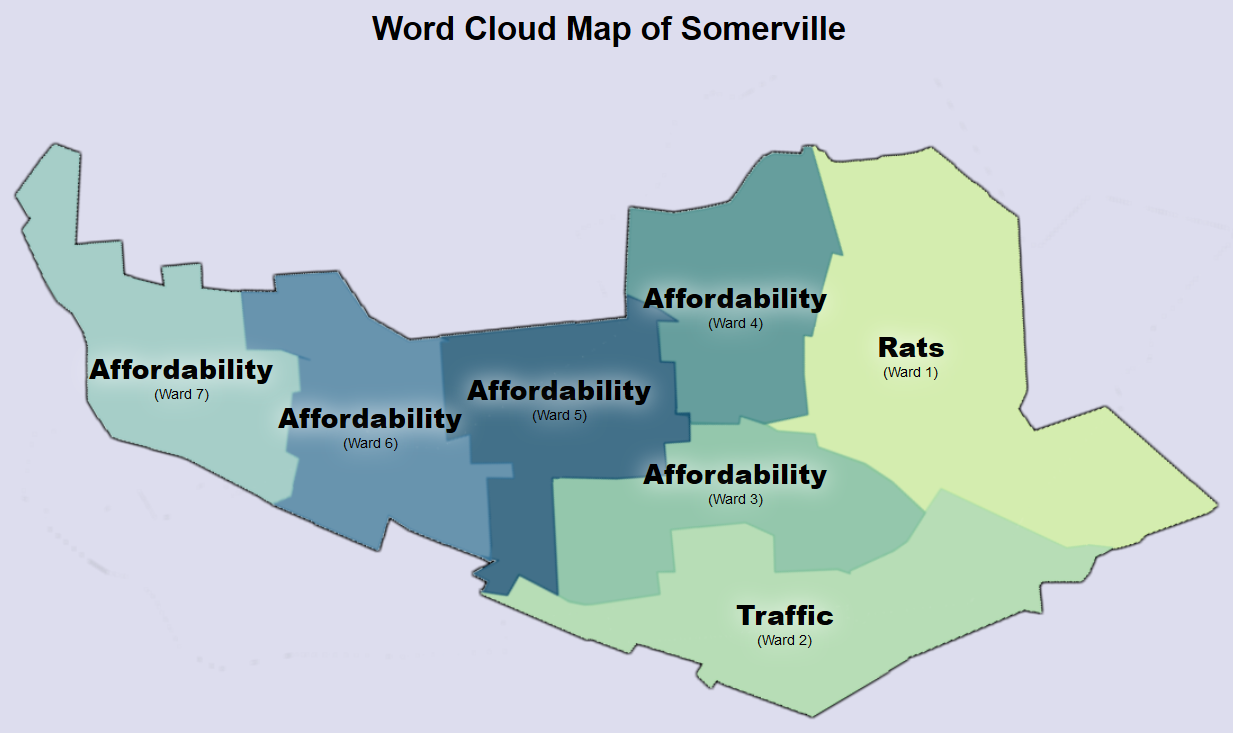
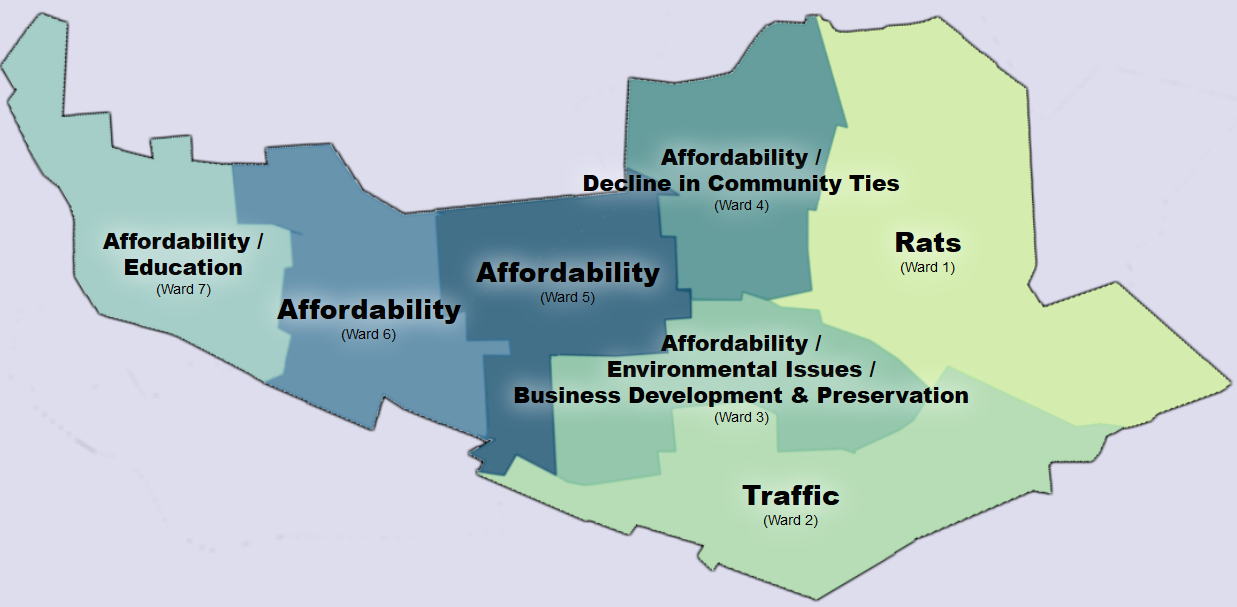
Add files via upload

diff --git a/index.html b/index.html
@@ -1,20 +1,25 @@
 <html>
 <head>
   <meta property="og:image" content="https://jcalz.github.io/somerville-word-clouds/preview.png">	
-  <meta property="og:title" content="Somerville Word Clouds">
-  <title>Somerville Word Clouds</title>
+  <meta property="og:title" content="A Snapshot of Somerville Conversations">
+  <title>A Snapshot of Somerville Conversations</title>
   <style>
       html {
-	    text-align: center;
 	    font-family: Helvetica Neue,Helvetica,Arial,sans-serif;
 		background-color: #ddddee;
 		width: 80%;
+	  }
+	  h2 {
+	  	    text-align: center;
 	  }
       .container {
 	    position: relative;
 		font-size: 1.7vw;
 		text-shadow: 0 0 0.8em white;
-		
+	  	    text-align: center;		
+	  }
+	  .long {
+	    font-size: 80%;
 	  }
 	  .container img {
 		width: 100%;
@@ -34,31 +39,31 @@
 	    font-weight: 900;
 	  }
       .ward1 {
-	    left: 74%;
-		top: 40%;
+	    left: 75%;
+		top: 41%;
 	  }
       .ward2 {
 	    left: 64%;
-		top: 78%;
+		top: 83%;
 	  }
       .ward3 {
 	    left: 60%;
-		top: 58%;
+		top: 62%;
 	  }
       .ward4 {
 	    left: 60%;
-		top: 33%;
+		top: 29%;
 	  }
 	  .ward5 {
 	    left: 46%;
 		top: 46%;
 	  }
       .ward6 {
-	    left: 31%;
-		top: 50%;
+	    left: 30%;
+		top: 52%;
 	  }
       .ward7 {
-	    left: 16%;
+	    left: 15%;
 		top: 43%;
 	  }
 	  .wardnumber {
@@ -69,16 +74,19 @@
   </style>
 </head>
 <body>
-<h2>Word Cloud Map of Somerville</h2>
+<h2>A Snapshot of Somerville Conversations</h2>
  <div class="container">
   <img src="somervillewards.png">
   <div class="ward ward1"><a href="ward1cloud.png">Rats<span class="wardnumber">(Ward 1)</span></a></div>
   <div class="ward ward2"><a href="ward2cloud.png">Traffic<span class="wardnumber">(Ward 2)</span></a></div>
-  <div class="ward ward3"><a href="ward3cloud.png">Affordability<span class="wardnumber">(Ward 3)</span></a></div>
-  <div class="ward ward4"><a href="ward4cloud.png">Affordability<span class="wardnumber">(Ward 4)</span></a></div>
+  <div class="ward ward3"><a href="ward3cloud.png"><span class="long">Affordability /<br>Environmental&nbsp;Issues /<br>Business&nbsp;Development &amp; Preservation</span><span class="wardnumber">(Ward 3)</span></a></div>
+  <div class="ward ward4"><a href="ward4cloud.png"><span class="long">Affordability /<br> Decline&nbsp;in Community&nbsp;Ties</span><span class="wardnumber">(Ward 4)</span></a></div>
   <div class="ward ward5"><a href="ward5cloud.png">Affordability<span class="wardnumber">(Ward 5)</span></a></div>
   <div class="ward ward6"><a href="ward6cloud.png">Affordability<span class="wardnumber">(Ward 6)</span></a></div>
-  <div class="ward ward7"><a href="ward7cloud.png">Affordability<span class="wardnumber">(Ward 7)</span></a></div>
+  <div class="ward ward7"><a href="ward7cloud.png"><span class="long">Affordability /<br> Education</span><span class="wardnumber">(Ward 7)</span></a></div>
  </div> 
+<div>
+  These word clouds provide a rough sketch of the 1,600 conversations I've had with people across the city as I've been door knocking since February. Of those conversations, about 650 people gave me specific issues in response to the question: "What are your top issues or worries?" A few points to note... My canvassing focused more on municipal voters, so the comments reflect more of their concerns. Also, I made decisions about how to code the comments, and each category includes a wide range of more specific issues. For example, "Decline in Community Ties" includes people who said they are less likely to know their neighbors because of more transience, absentee landlords, people who work long hours, and a decline in the number of kids on a block. The category of "traffic" includes people who did not like cut-through traffic on their block and those who are frustrated with the challenges of getting somewhere in their cars. The category "Development" generally reflects frustration or a sense of powerlessness about development projects near home. It's not a scientific approach, but just a rough impression and conversation starter. Add your view <a href="https://goo.gl/forms/xYAyCza4PHbfAQry1">here</a>.  We created the word clouds using <a href="https://wordart.com/create">WordArt.com</a>. 
+</div>
 </body>
 </html>
